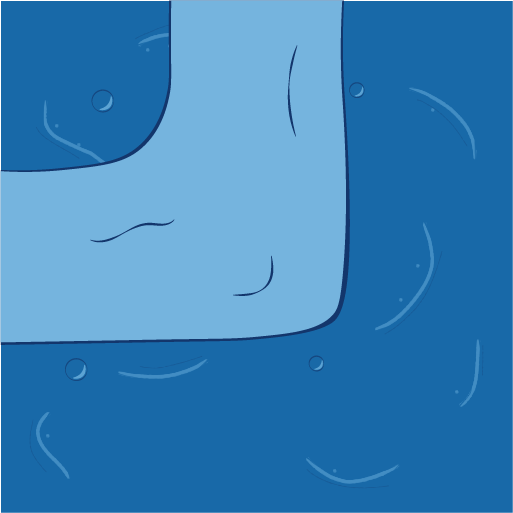
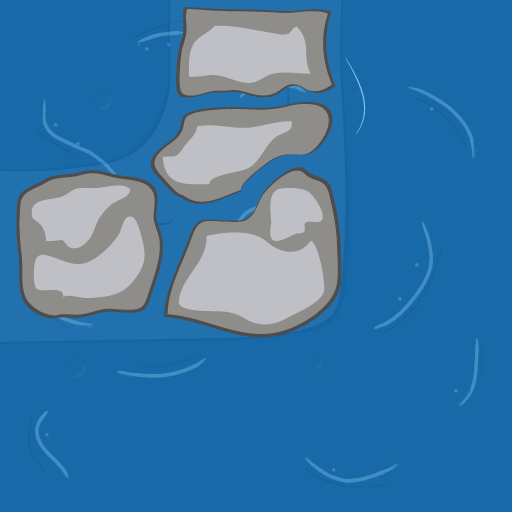
Cambio de tiles

diff --git a/sketch.js b/sketch.js
@@ -1,10 +1,10 @@
 const celdas = [];
-const RETÍCULA = 8;
+const RETÍCULA = 6;
 let ancho; //anchura de la celda
 let alto; //altura de la celda
 
 const azulejos = [];
-const NA = 18; //número de azulejos
+const NA = 21; //número de azulejos
 const reglas = [
   // reglas de los bordes de cada azulejo
   {
@@ -150,6 +150,30 @@ const reglas = [
     DOWN: 0,
     LEFT: 0,
   },
+
+  {
+    //tile 18
+    UP: 0,
+    RIGHT: 0,
+    DOWN: 0,
+    LEFT: 0,
+  },
+
+  {
+    //tile 19
+    UP: 0,
+    RIGHT: 0,
+    DOWN: 0,
+    LEFT: 0,
+  },
+
+  {
+    //tile 20
+    UP: 0,
+    RIGHT: 0,
+    DOWN: 0,
+    LEFT: 0,
+  },
 ];
 
 function preload() {
@@ -186,7 +210,7 @@ function setup() {
 }
 
 function draw() {
-  background(240, 40);
+  background(240);
 
   const celdasDisponibles = celdas.filter((celda) => {
     return celda.colapsada == false;
